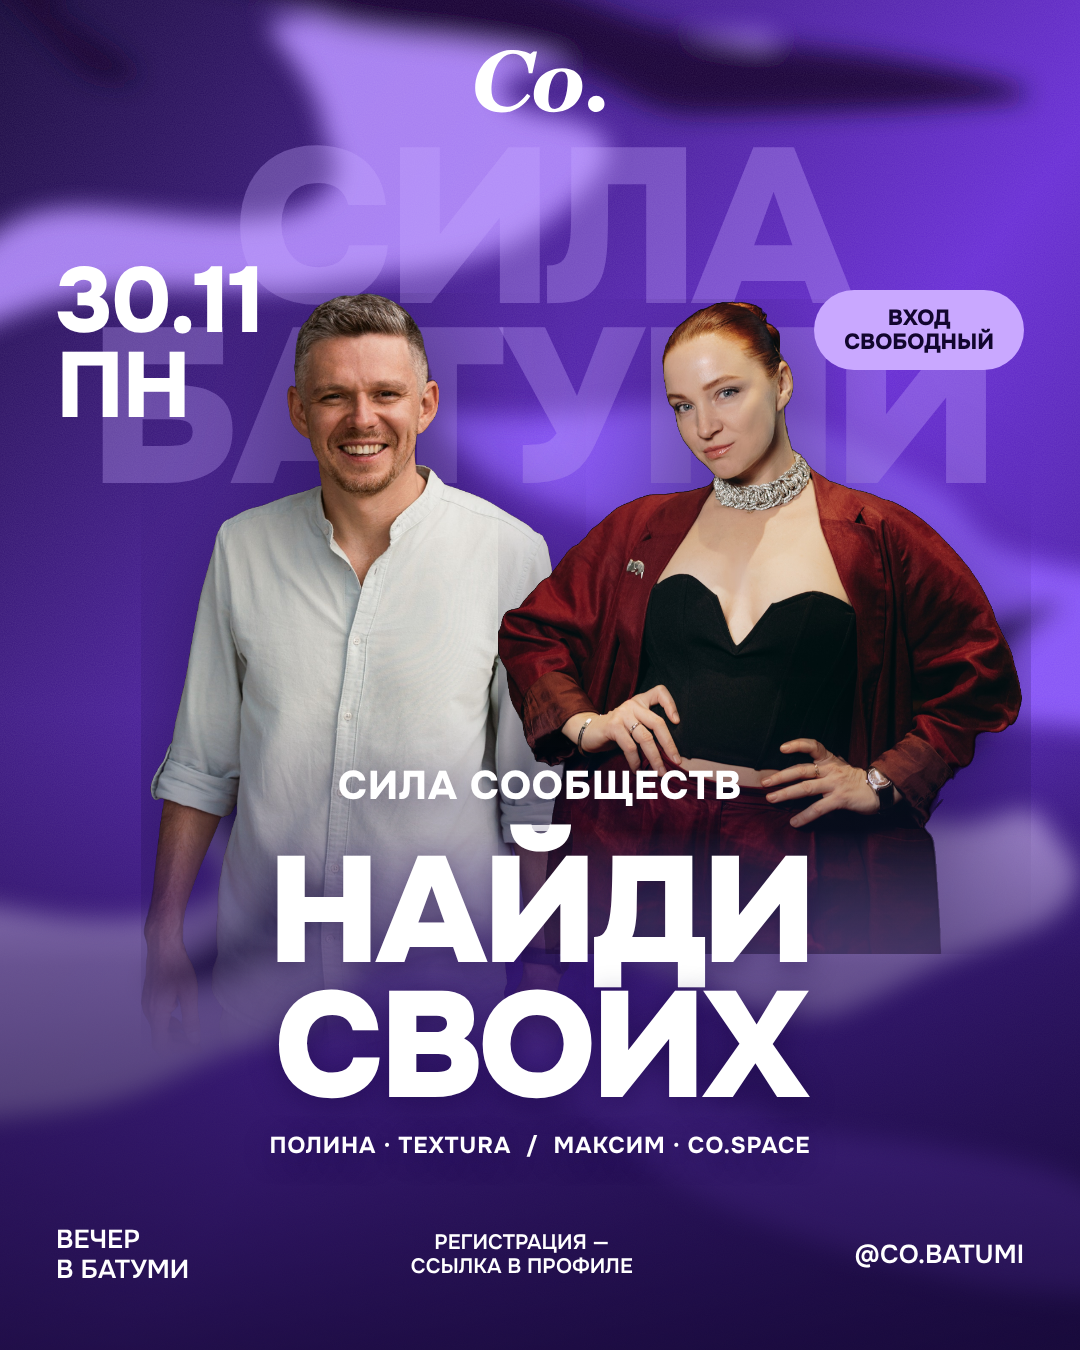
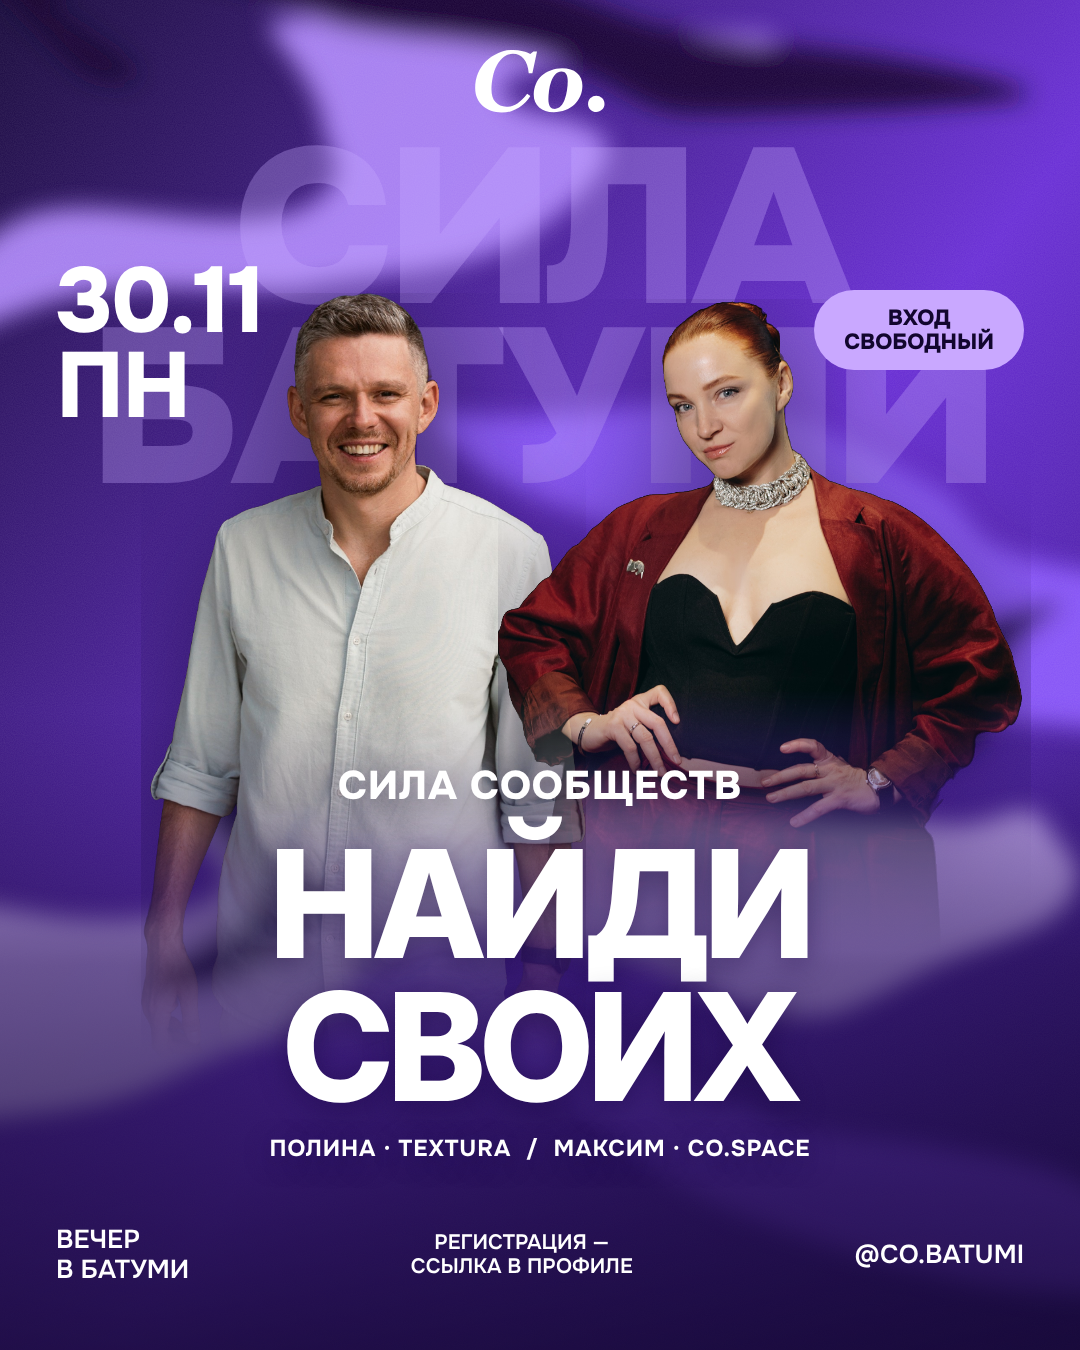
Батуми фиолетовая: плавный низ у Полины, аккуратная «Й», без чёрточки
Claude-Session: https://claude.ai/code/session_01EUhV7vaX3V2s8FuVCAhgM5

Changed region(s): [[0.2444, 0.5289, 0.9167, 0.8711], [0.2444, 0.6222, 0.275, 0.6533]]

diff --git a/creatives/src/poster/purpleB-9x16.html b/creatives/src/poster/purpleB-9x16.html
@@ -37,11 +37,11 @@ body{font-family:'Onest',sans-serif;color:#fff;position:relative}
 </svg>
 </div>
 <div class="ghost" style="top:300px;font-size:250px">СИЛА<br>БАТУМИ</div>
-<img src="max_portrait_cut.png" style="position:absolute;left:52px;top:477px;width:618px;-webkit-mask-image:linear-gradient(180deg,#000 75.2%,transparent 95.4%);filter:drop-shadow(0 30px 60px rgba(15,5,40,.55));z-index:3"><img src="polina_cut.png" style="position:absolute;left:414px;top:485px;width:741px;-webkit-mask-image:linear-gradient(180deg,#000 92.8%,transparent 118.0%);filter:drop-shadow(0 30px 60px rgba(15,5,40,.55));z-index:3">
+<img src="max_portrait_cut.png" style="position:absolute;left:52px;top:477px;width:618px;-webkit-mask-image:linear-gradient(180deg,#000 72.5%,transparent 95.4%);filter:drop-shadow(0 30px 60px rgba(15,5,40,.55));z-index:3"><img src="polina_cut.png" style="position:absolute;left:414px;top:485px;width:741px;-webkit-mask-image:linear-gradient(180deg,#000 71.0%,transparent 99.6%);filter:drop-shadow(0 30px 60px rgba(15,5,40,.55));z-index:3">
 <div class="abs" style="left:0;right:0;top:1210px;height:710px;background:linear-gradient(180deg,rgba(26,11,61,0),rgba(26,11,61,.55) 40%,rgba(20,8,50,.85));z-index:4"></div>
 <div class="date" style="top:470px">30.11<br>ПН</div>
 <div class="pill" style="top:500px">вход<br>свободный</div>
-<div class="title" style="top:1235px"><div class="kick">СИЛА СООБЩЕСТВ</div><div class="dash"></div>
-<div class="big" style="font-size:170px">Найди<br>своих</div>
+<div class="title" style="top:1235px"><div class="kick">СИЛА СООБЩЕСТВ</div>
+<div class="big" style="font-size:170px;font-family:'Inter Display',sans-serif;font-weight:800;line-height:.95;margin-top:26px">Найди<br>своих</div>
 <div class="sub">Полина · TEXTURA &nbsp;/&nbsp; Максим · Co.Space</div></div>
 <div class="foot" style="top:1730px"><div>Вечер<br>в Батуми</div><div style="text-align:center;font-size:.8em">Регистрация —<br>ссылка в профиле</div><div style="text-align:right">@co.batumi</div></div></body></html>

diff --git a/creatives/src/poster/purpleB-4x5.html b/creatives/src/poster/purpleB-4x5.html
@@ -37,11 +37,11 @@ body{font-family:'Onest',sans-serif;color:#fff;position:relative}
 </svg>
 </div>
 <div class="ghost" style="top:140px;font-size:220px">СИЛА<br>БАТУМИ</div>
-<img src="max_portrait_cut.png" style="position:absolute;left:141px;top:293px;width:445px;-webkit-mask-image:linear-gradient(180deg,#000 65.8%,transparent 94.0%);filter:drop-shadow(0 30px 60px rgba(15,5,40,.55));z-index:3"><img src="polina_cut.png" style="position:absolute;left:498px;top:299px;width:533px;-webkit-mask-image:linear-gradient(180deg,#000 81.2%,transparent 116.3%);filter:drop-shadow(0 30px 60px rgba(15,5,40,.55));z-index:3">
+<img src="max_portrait_cut.png" style="position:absolute;left:141px;top:293px;width:445px;-webkit-mask-image:linear-gradient(180deg,#000 62.2%,transparent 94.0%);filter:drop-shadow(0 30px 60px rgba(15,5,40,.55));z-index:3"><img src="polina_cut.png" style="position:absolute;left:498px;top:299px;width:533px;-webkit-mask-image:linear-gradient(180deg,#000 59.7%,transparent 99.4%);filter:drop-shadow(0 30px 60px rgba(15,5,40,.55));z-index:3">
 <div class="abs" style="left:0;right:0;top:710px;height:640px;background:linear-gradient(180deg,rgba(26,11,61,0),rgba(26,11,61,.55) 40%,rgba(20,8,50,.85));z-index:4"></div>
 <div class="date" style="top:260px">30.11<br>ПН</div>
 <div class="pill" style="top:290px">вход<br>свободный</div>
-<div class="title" style="top:760px"><div class="kick">СИЛА СООБЩЕСТВ</div><div class="dash"></div>
-<div class="big" style="font-size:150px">Найди<br>своих</div>
+<div class="title" style="top:760px"><div class="kick">СИЛА СООБЩЕСТВ</div>
+<div class="big" style="font-size:150px;font-family:'Inter Display',sans-serif;font-weight:800;line-height:.95;margin-top:22px">Найди<br>своих</div>
 <div class="sub">Полина · TEXTURA &nbsp;/&nbsp; Максим · Co.Space</div></div>
 <div class="foot" style="top:1225px"><div>Вечер<br>в Батуми</div><div style="text-align:center;font-size:.8em">Регистрация —<br>ссылка в профиле</div><div style="text-align:right">@co.batumi</div></div></body></html>

diff --git a/creatives/src/poster/build_purple_batumi.py b/creatives/src/poster/build_purple_batumi.py
@@ -16,8 +16,9 @@ def person(p, F, fx, fy, fade_y, H):
     s = F / p["fw"]
     w, h = p["w"] * s, p["h"] * s
     left, top = fx - p["cx"] * s, fy - p["cy"] * s
-    a = (fade_y - top) / h * 100
-    b = (fade_y + 230 - top) / h * 100
+    end = min(fade_y + 230, top + h - 4)   # растушёвка заканчивается до края вырезки
+    a = (end - 260 - top) / h * 100
+    b = (end - top) / h * 100
     return (f'<img src="{p["img"]}" style="position:absolute;left:{left:.0f}px;top:{top:.0f}px;width:{w:.0f}px;'
             f'-webkit-mask-image:linear-gradient(180deg,#000 {a:.1f}%,transparent {b:.1f}%);'
             f'filter:drop-shadow(0 30px 60px rgba(15,5,40,.55));z-index:3">')
@@ -75,8 +76,8 @@ body{{font-family:'Onest',sans-serif;color:#fff;position:relative}}
 <div class="abs" style="left:0;right:0;top:{fade - 120}px;height:{H - fade + 120}px;background:linear-gradient(180deg,rgba(26,11,61,0),rgba(26,11,61,.55) 40%,rgba(20,8,50,.85));z-index:4"></div>
 <div class="date" style="top:{date_y}px">30.11<br>ПН</div>
 <div class="pill" style="top:{date_y + 30}px">вход<br>свободный</div>
-<div class="title" style="top:{title_y}px"><div class="kick">СИЛА СООБЩЕСТВ</div><div class="dash"></div>
-<div class="big" style="font-size:{170 if story else 150}px">Найди<br>своих</div>
+<div class="title" style="top:{title_y}px"><div class="kick">СИЛА СООБЩЕСТВ</div>
+<div class="big" style="font-size:{170 if story else 150}px;font-family:'Inter Display',sans-serif;font-weight:800;line-height:.95;margin-top:{26 if story else 22}px">Найди<br>своих</div>
 <div class="sub">Полина · TEXTURA &nbsp;/&nbsp; Максим · Co.Space</div></div>
 <div class="foot" style="top:{foot_y}px"><div>Вечер<br>в Батуми</div><div style="text-align:center;font-size:.8em">Регистрация —<br>ссылка в профиле</div><div style="text-align:right">@co.batumi</div></div>"""
     return f'<!doctype html><html><head><meta charset="utf-8"><style>{css}</style></head><body>{body}</body></html>'
